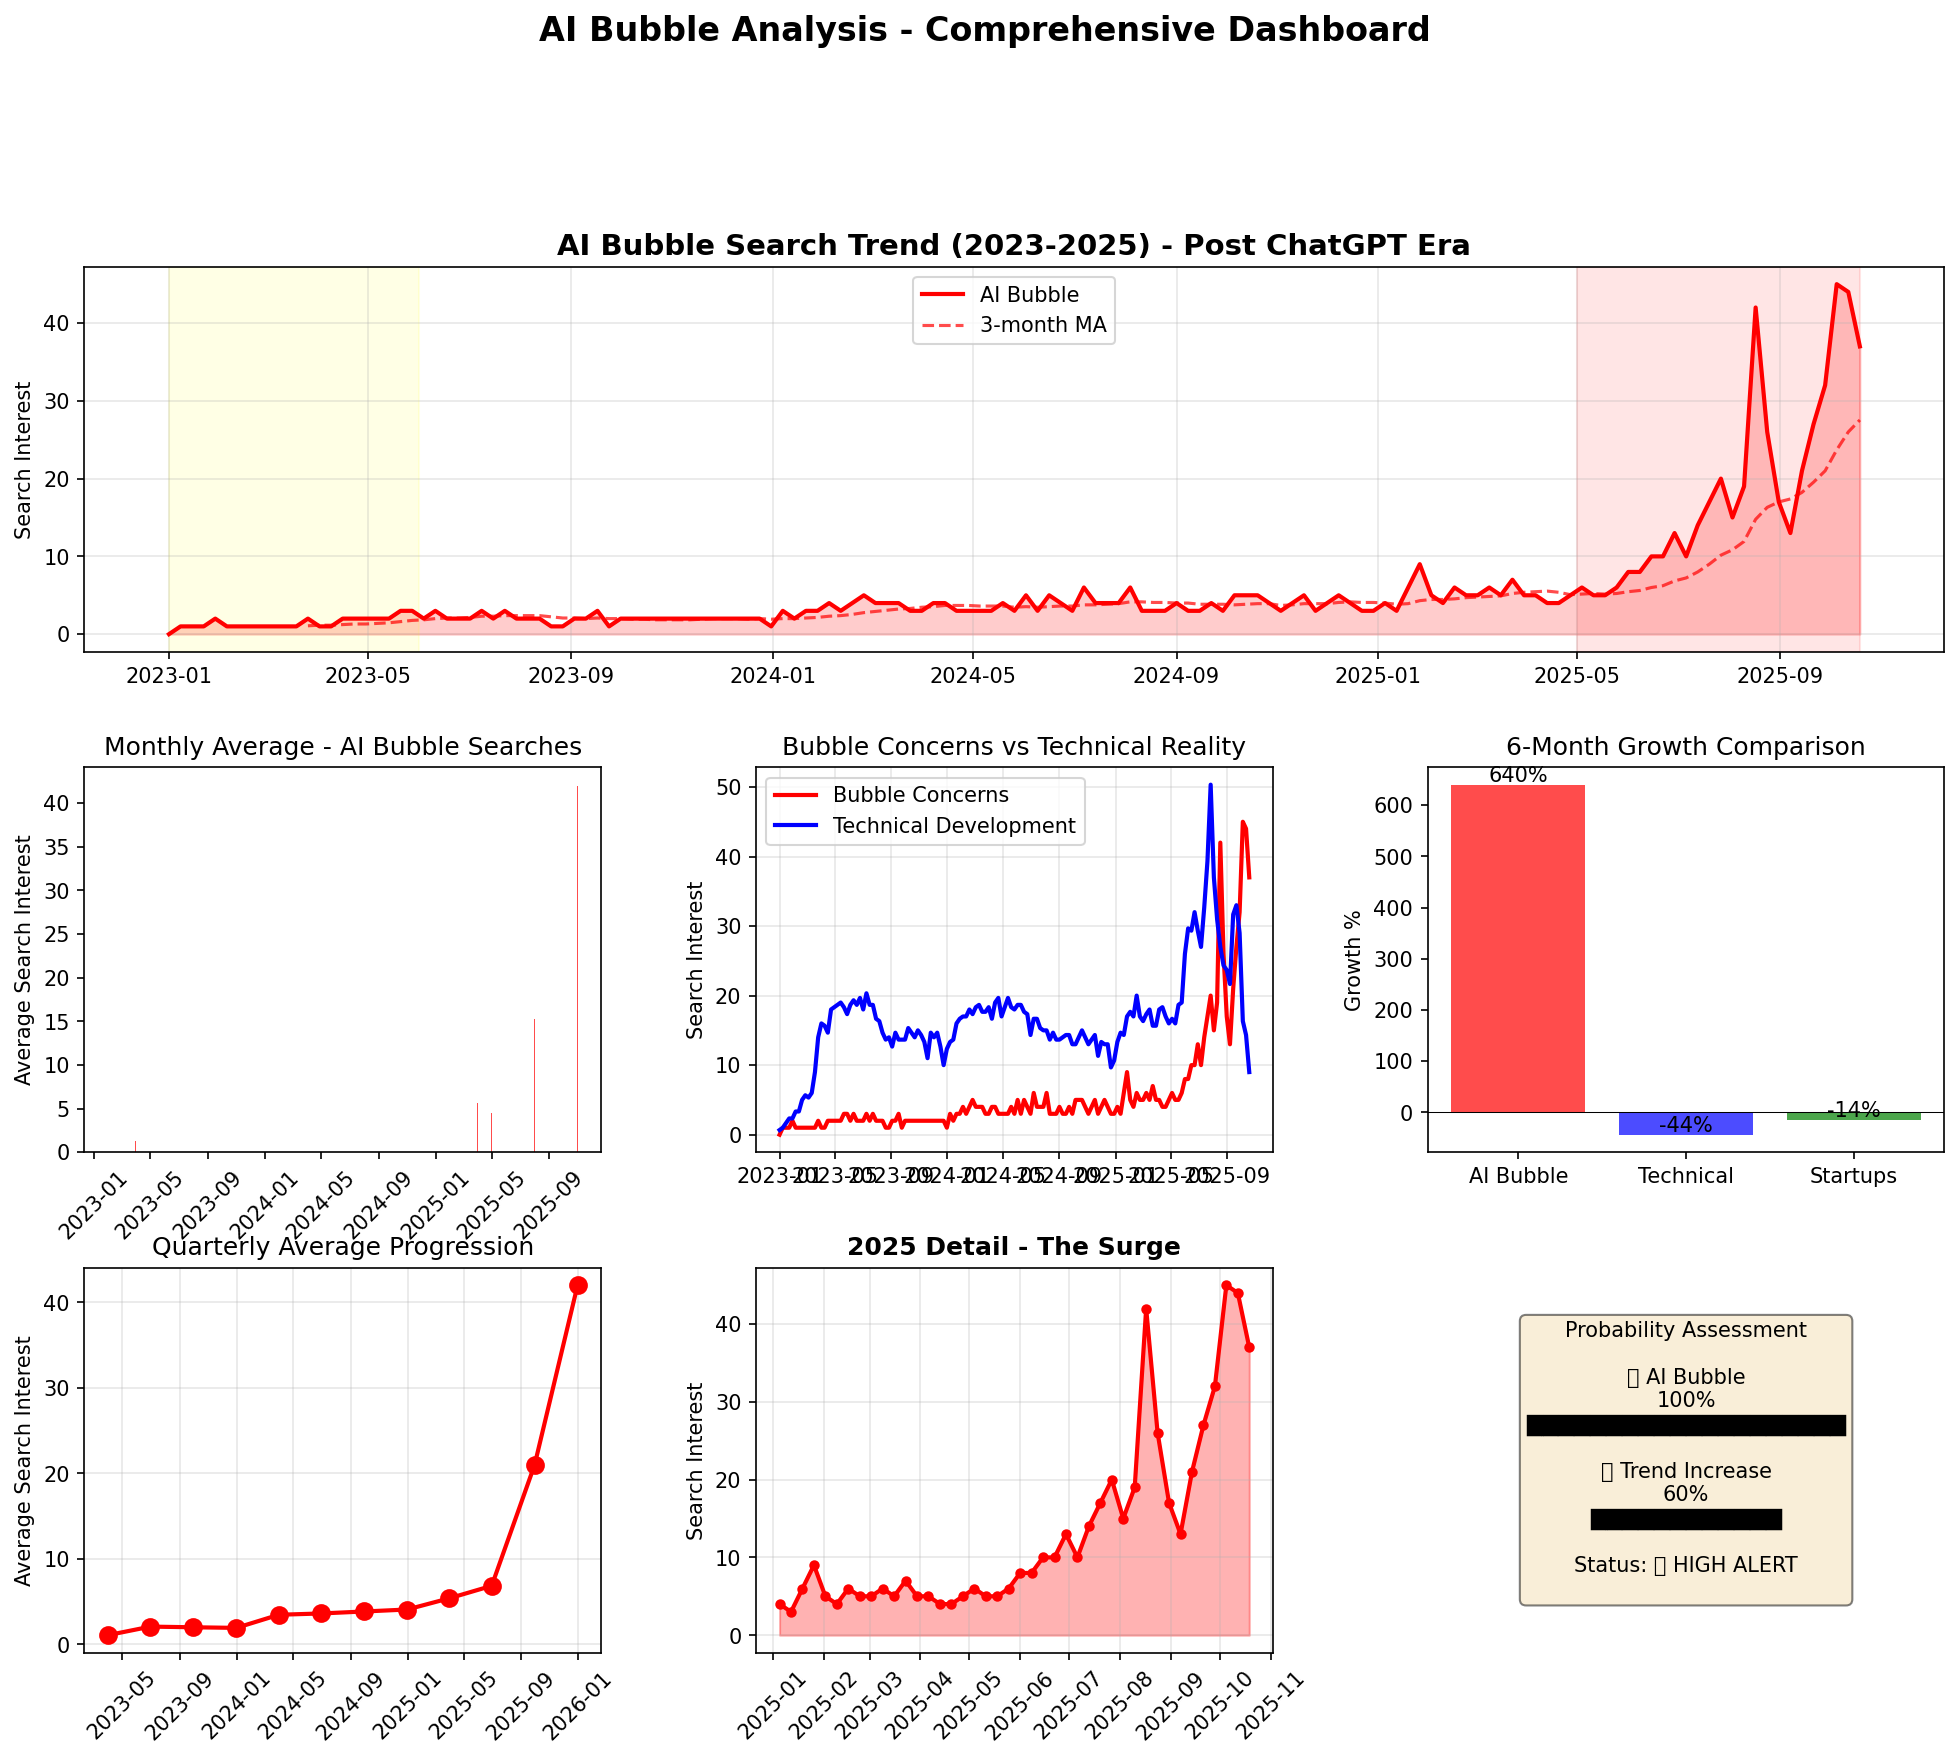
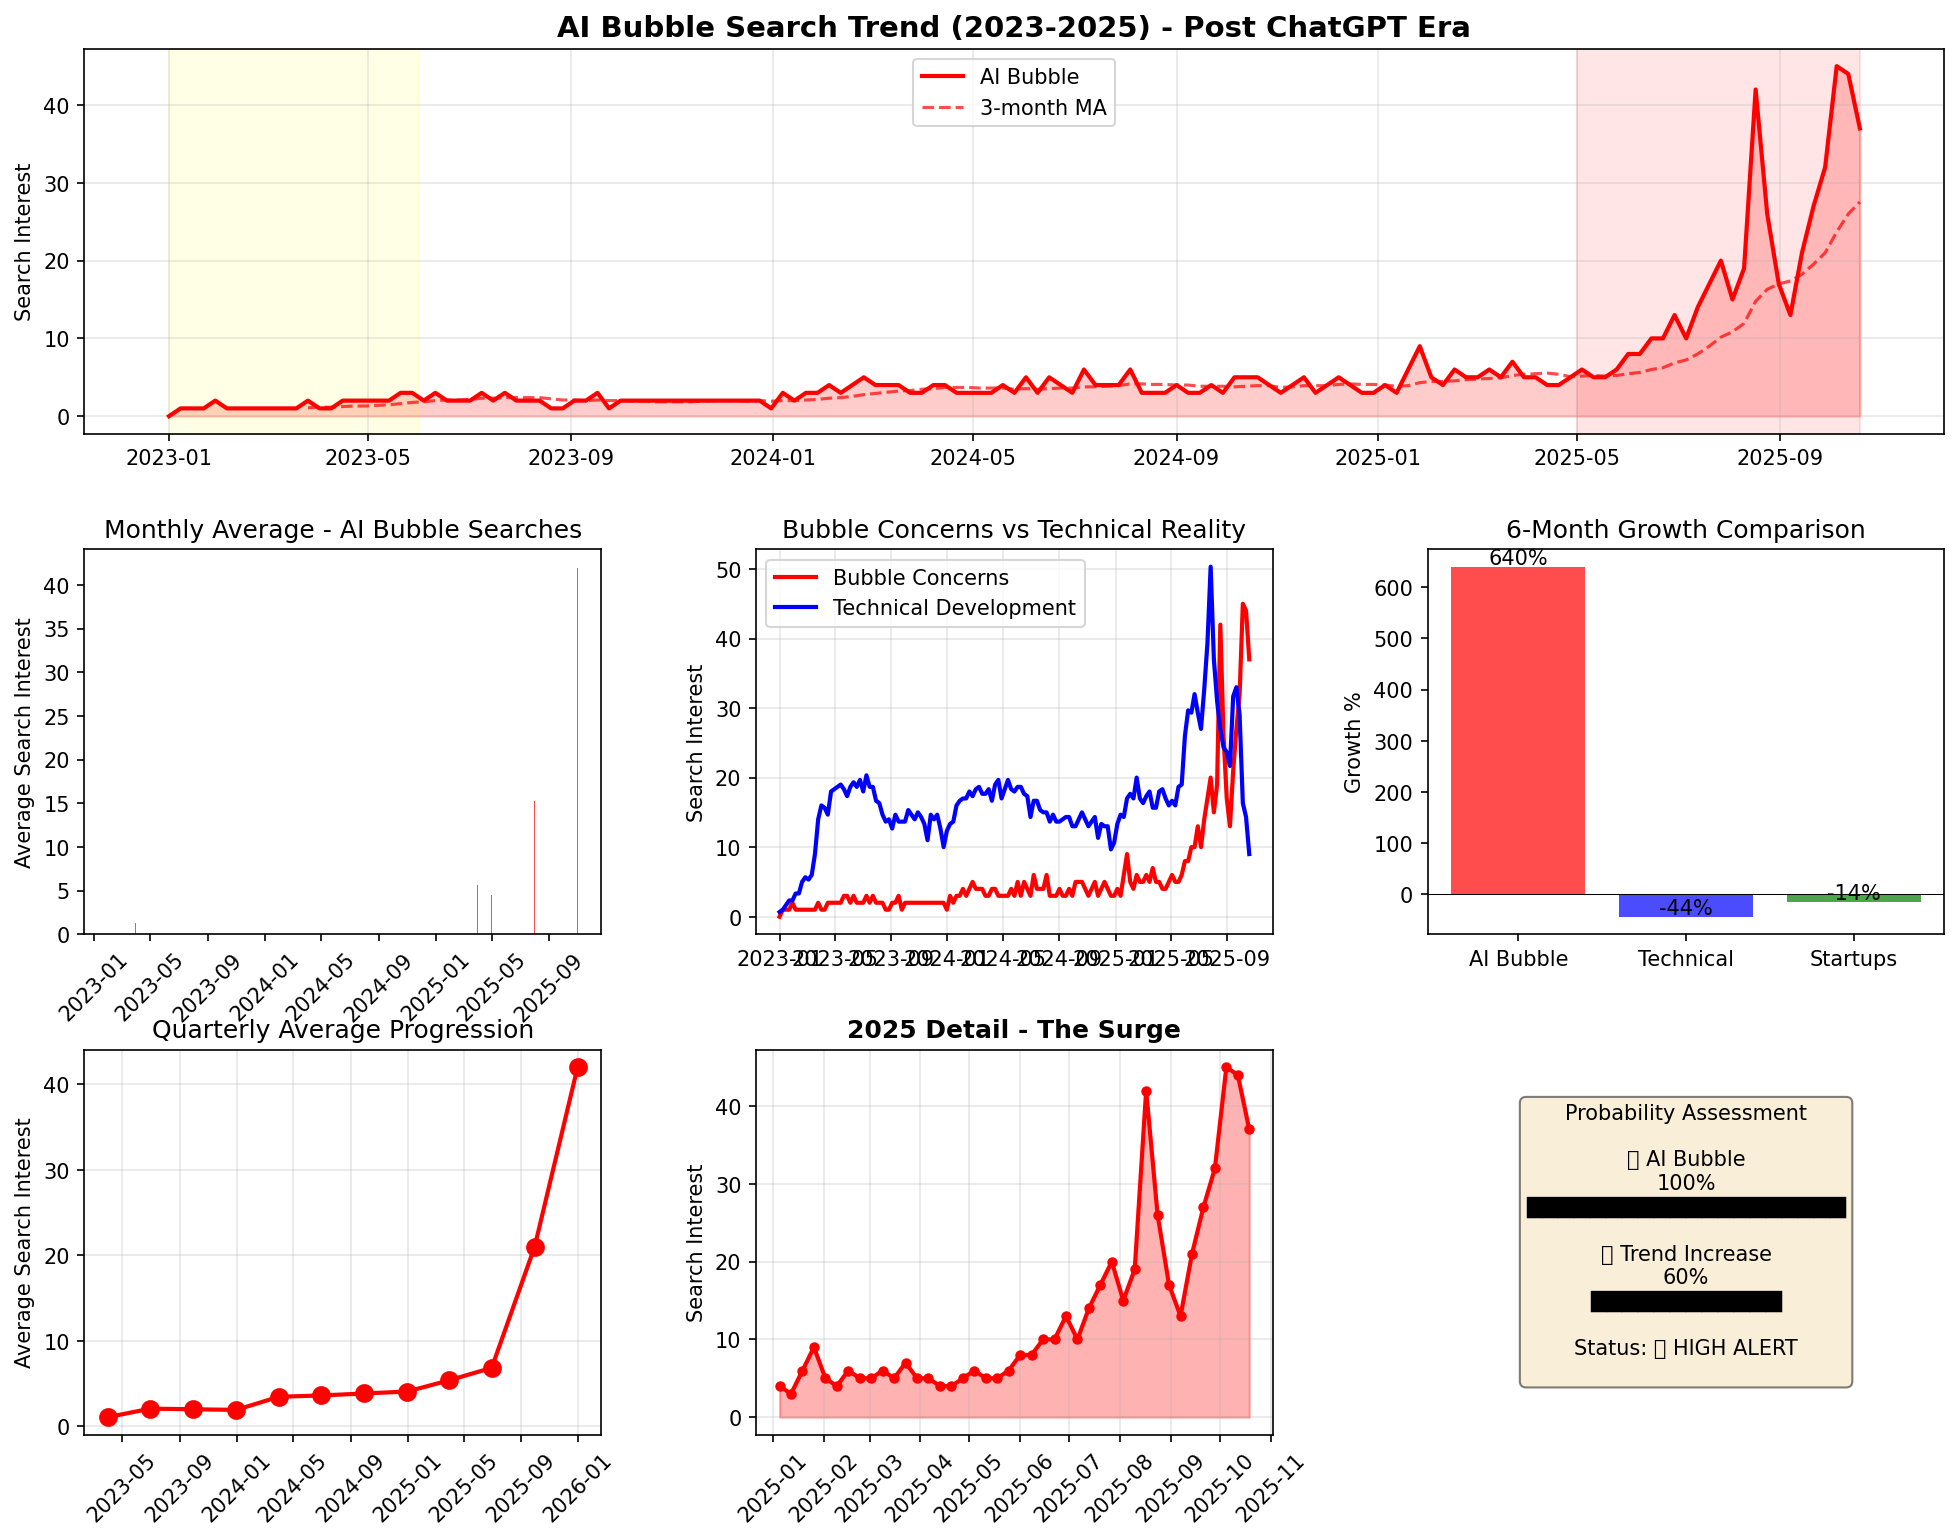
fix: Remove title from AI bubble visualization for cleaner layout
- Removed 'AI Bubble Analysis - Comprehensive Dashboard' title
- Fixed CSV file path to use relative path (../../data/)
- Regenerated visualization with cleaner appearance

diff --git a/phase-1-detection/analysis/v1/ai_bubble_refined_analysis.py b/phase-1-detection/analysis/v1/ai_bubble_refined_analysis.py
@@ -6,7 +6,7 @@ import warnings
 warnings.filterwarnings('ignore')
 
 # Load the data
-df = pd.read_csv('multiTimeline-googleTrends.csv', skiprows=1)
+df = pd.read_csv('../../data/multiTimeline-googleTrends.csv', skiprows=1)
 df['Week'] = pd.to_datetime(df['Week'])
 df.set_index('Week', inplace=True)
 
@@ -382,7 +382,7 @@ Status: {'🔴 HIGH ALERT' if bubble_probability >= 80 else '🟡 CAUTION' if bu
 ax7.text(0.5, 0.5, prob_text, fontsize=10, ha='center', va='center',
          bbox=dict(boxstyle='round', facecolor='wheat', alpha=0.5))
 
-plt.suptitle('AI Bubble Analysis - Comprehensive Dashboard', fontsize=16, fontweight='bold', y=1.02)
+# Title removed for cleaner look
 plt.tight_layout()
 plt.savefig('ai_bubble_refined_analysis.png', dpi=150, bbox_inches='tight')
 print("\n📊 Enhanced visualization saved as 'ai_bubble_refined_analysis.png'")
